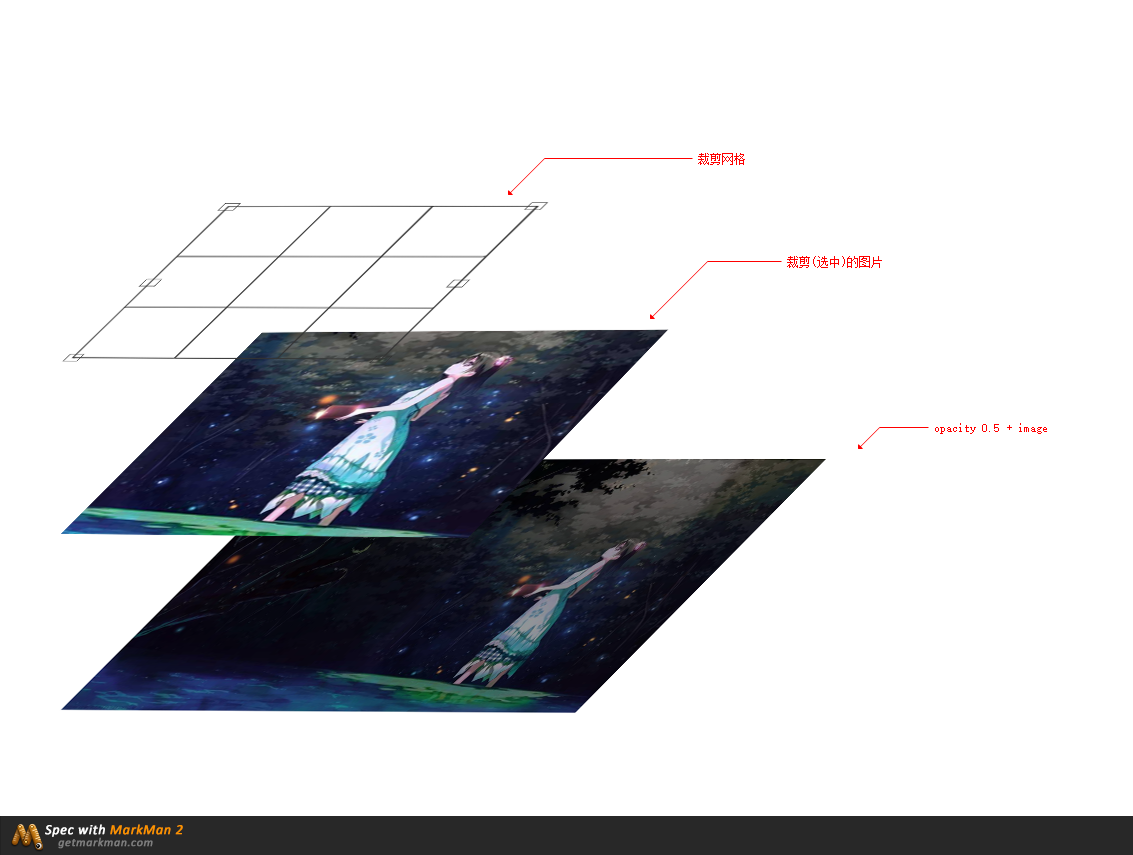
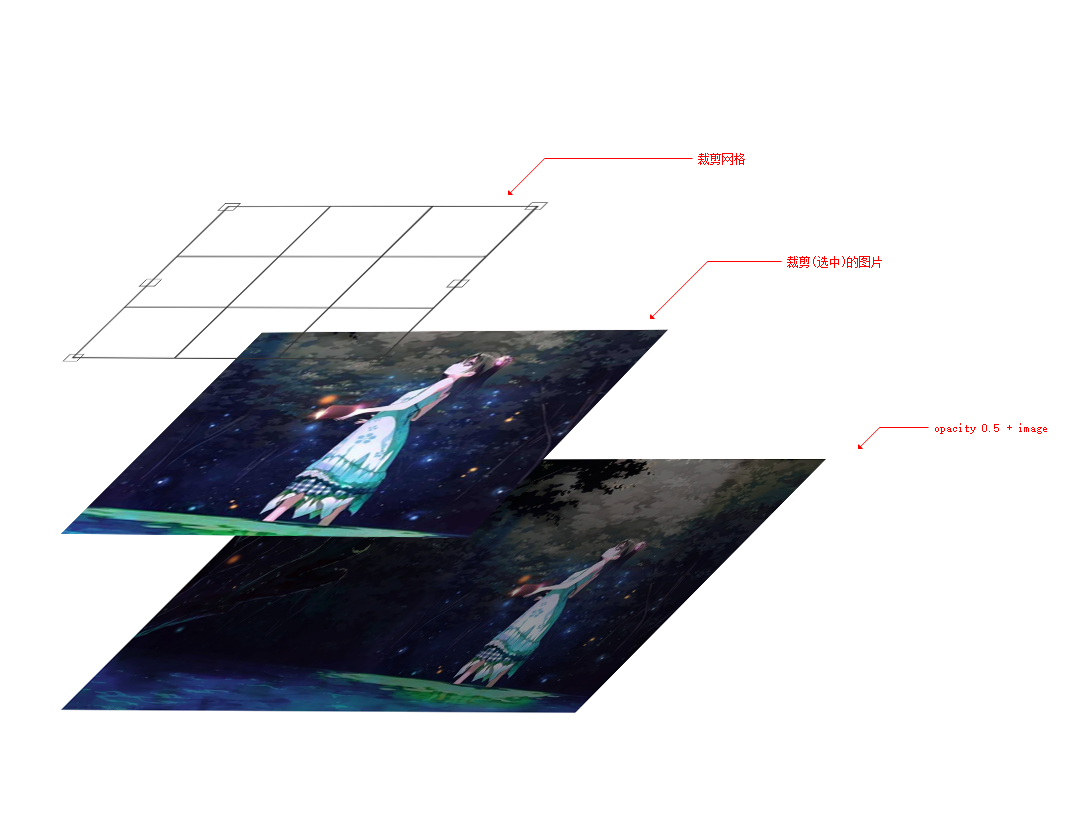
Site updated: 2017-11-19 23:37:47

diff --git a/2017/11/17/Javascript深入解析-裁剪图片效果/index.html b/2017/11/17/Javascript深入解析-裁剪图片效果/index.html
@@ -98,13 +98,16 @@
 <meta property="og:url" content="http://yoursite.com/2017/11/17/Javascript深入解析-裁剪图片效果/index.html">
 <meta property="og:site_name" content="usake - 实验台">
 <meta property="og:description" content="在生活中我们时常能看到这种图片裁剪的效果, 那么他实际上用JavaScript是怎么实现的呢? 让我们深入的了解一下.">
+<meta property="og:image" content="http://yoursite.com/blog/2017/11/17/Javascript深入解析-裁剪图片效果/image-01.png">
+<meta property="og:image" content="http://yoursite.com/blog/2017/11/17/Javascript深入解析-裁剪图片效果/clip_spec.png">
 <meta property="og:image" content="http://yoursite.com/blog/2017/11/17/Javascript深入解析-裁剪图片效果/MouseEvent-1.png">
 <meta property="og:image" content="http://yoursite.com/blog/2017/11/17/Javascript深入解析-裁剪图片效果/MouseEvent-2.png">
-<meta property="og:updated_time" content="2017-11-18T14:09:31.411Z">
+<meta property="og:image" content="http://yoursite.com/blog/2017/11/17/Javascript深入解析-裁剪图片效果/drap-2.png">
+<meta property="og:updated_time" content="2017-11-19T15:36:17.455Z">
 <meta name="twitter:card" content="summary">
 <meta name="twitter:title" content="Javascript深入理解-裁剪图片效果">
 <meta name="twitter:description" content="在生活中我们时常能看到这种图片裁剪的效果, 那么他实际上用JavaScript是怎么实现的呢? 让我们深入的了解一下.">
-<meta name="twitter:image" content="http://yoursite.com/blog/2017/11/17/Javascript深入解析-裁剪图片效果/MouseEvent-1.png">
+<meta name="twitter:image" content="http://yoursite.com/blog/2017/11/17/Javascript深入解析-裁剪图片效果/image-01.png">
 
 
 
@@ -424,32 +427,38 @@
       
 
       
-        
+        <img src="/blog/2017/11/17/Javascript深入解析-裁剪图片效果/image-01.png" alt="image-01.png" title="">
 <p>在生活中我们时常能看到这种图片裁剪的效果, 那么他实际上用JavaScript是怎么实现的呢? 让我们深入的了解一下.<br><a id="more"></a></p>
-<h2 id="原理分析"><a href="#原理分析" class="headerlink" title="原理分析"></a>原理分析</h2><p>&emsp;&emsp;首先我们先将视图一分为三, 看作为三个层级叠加在一起的仰视图.</p>
+<h2 id="原理分析"><a href="#原理分析" class="headerlink" title="原理分析"></a>原理分析</h2><img src="/blog/2017/11/17/Javascript深入解析-裁剪图片效果/clip_spec.png" alt="自己用PS撸的渣图" title="自己用PS撸的渣图">
+<p>首先我们先将视图一分为三, 理解为三个层级叠加在一起的仰视图.</p>
 <ul>
 <li>最上面是可拖动的选择窗口</li>
 <li>中间待剪辑的可视窗口</li>
-<li>底层是一张<code>opacity: .5</code>的背景图片{% asset_img clip_spec.png %}
-</li>
+<li>底层是一张<code>opacity: .5</code>的背景图片</li>
 </ul>
-<h3 id="基础结构"><a href="#基础结构" class="headerlink" title="基础结构"></a>基础结构</h3><p>&emsp;&emsp;我们这里主要讲JavaScript, HTML与css就简要的过一下.</p>
+<h3 id="基础结构"><a href="#基础结构" class="headerlink" title="基础结构"></a>基础结构</h3><p>我们这里主要讲JavaScript, HTML与css就简要的过一下.</p>
 <p>首先<code>HTML</code>基本结构是两张相同的结构, 两张图片分别是调整过透明度的底图和一张被裁剪过了的中间层.<code>mainBox</code>包裹着选择的小方块<code>square</code>,相对定位于image在最上面一层.<br><figure class="highlight html"><table><tr><td class="gutter"><pre><div class="line">1</div><div class="line">2</div><div class="line">3</div><div class="line">4</div><div class="line">5</div><div class="line">6</div><div class="line">7</div><div class="line">8</div><div class="line">9</div><div class="line">10</div><div class="line">11</div><div class="line">12</div><div class="line">13</div><div class="line">14</div><div class="line">15</div><div class="line">16</div><div class="line">17</div><div class="line">18</div></pre></td><td class="code"><pre><div class="line"><span class="comment">&lt;!-- index.html --&gt;</span></div><div class="line"><span class="tag">&lt;<span class="name">body</span>&gt;</span></div><div class="line">  <span class="tag">&lt;<span class="name">div</span> <span class="attr">id</span>=<span class="string">"box"</span>&gt;</span></div><div class="line">    <span class="tag">&lt;<span class="name">img</span> <span class="attr">src</span>=<span class="string">"images/Konachan.com - 239917 sample.jpg"</span> <span class="attr">alt</span>=<span class="string">"img"</span> <span class="attr">id</span>=<span class="string">"image1"</span>&gt;</span></div><div class="line">    <span class="tag">&lt;<span class="name">img</span> <span class="attr">src</span>=<span class="string">"images/Konachan.com - 239917 sample.jpg"</span> <span class="attr">alt</span>=<span class="string">"img"</span> <span class="attr">id</span>=<span class="string">"image2"</span>&gt;</span></div><div class="line">    <span class="tag">&lt;<span class="name">div</span> <span class="attr">id</span>=<span class="string">"mainBox"</span> <span class="attr">class</span>=<span class="string">"main"</span>&gt;</span></div><div class="line">      <span class="tag">&lt;<span class="name">div</span> <span class="attr">class</span>=<span class="string">"square left-up"</span>&gt;</span><span class="tag">&lt;/<span class="name">div</span>&gt;</span></div><div class="line">      <span class="tag">&lt;<span class="name">div</span> <span class="attr">class</span>=<span class="string">"square up"</span>&gt;</span><span class="tag">&lt;/<span class="name">div</span>&gt;</span></div><div class="line">      <span class="tag">&lt;<span class="name">div</span> <span class="attr">class</span>=<span class="string">"square right-up"</span>&gt;</span><span class="tag">&lt;/<span class="name">div</span>&gt;</span></div><div class="line">      <span class="tag">&lt;<span class="name">div</span> <span class="attr">class</span>=<span class="string">"square right"</span>&gt;</span><span class="tag">&lt;/<span class="name">div</span>&gt;</span></div><div class="line">      <span class="tag">&lt;<span class="name">div</span> <span class="attr">class</span>=<span class="string">"square right-down"</span>&gt;</span><span class="tag">&lt;/<span class="name">div</span>&gt;</span></div><div class="line">      <span class="tag">&lt;<span class="name">div</span> <span class="attr">class</span>=<span class="string">"square down"</span>&gt;</span><span class="tag">&lt;/<span class="name">div</span>&gt;</span></div><div class="line">      <span class="tag">&lt;<span class="name">div</span> <span class="attr">class</span>=<span class="string">"square left-down"</span>&gt;</span><span class="tag">&lt;/<span class="name">div</span>&gt;</span></div><div class="line">      <span class="tag">&lt;<span class="name">div</span> <span class="attr">class</span>=<span class="string">"square left"</span>&gt;</span><span class="tag">&lt;/<span class="name">div</span>&gt;</span></div><div class="line">    <span class="tag">&lt;/<span class="name">div</span>&gt;</span></div><div class="line">  <span class="tag">&lt;/<span class="name">div</span>&gt;</span></div><div class="line">  <span class="tag">&lt;<span class="name">script</span> <span class="attr">src</span>=<span class="string">"js/main.js"</span>&gt;</span><span class="undefined"></span><span class="tag">&lt;/<span class="name">script</span>&gt;</span></div><div class="line"><span class="tag">&lt;/<span class="name">body</span>&gt;</span></div></pre></td></tr></table></figure></p>
-<p><strong>CSS样式</strong><br><figure class="highlight plain"><table><tr><td class="gutter"><pre><div class="line">1</div><div class="line">2</div><div class="line">3</div><div class="line">4</div><div class="line">5</div><div class="line">6</div><div class="line">7</div><div class="line">8</div><div class="line">9</div><div class="line">10</div><div class="line">11</div><div class="line">12</div><div class="line">13</div><div class="line">14</div><div class="line">15</div><div class="line">16</div><div class="line">17</div><div class="line">18</div><div class="line">19</div><div class="line">20</div><div class="line">21</div><div class="line">22</div><div class="line">23</div></pre></td><td class="code"><pre><div class="line">body &#123;background: #333;&#125;</div><div class="line">#box &#123;position: absolute;top: 100px; left: 200px; width: 460px; height: 360px;&#125;</div><div class="line">#box img &#123;width: 460px;&#125;</div><div class="line">#box #image1 &#123;opacity: .5;position: absolute; top: 0;left: 0;&#125;</div><div class="line">#box #image2 &#123;position: absolute; top: 0;left: 0; clip: rect(0, 200px, 200px, 0) &#125;</div><div class="line">#box .main &#123;position: absolute;border: 1px solid #fff; width: 200px; height: 200px;box-sizing: border-box;&#125;</div><div class="line">#box .main .square &#123;position: absolute; width: 8px;height: 8px; background: #fff&#125;</div><div class="line">#box .main .left-up&#123;left: -4px;top: -4px;cursor: nw-resize;&#125;</div><div class="line">#box .main .up&#123;left: 50%;top: -4px;margin-left: -4px;cursor: n-resize&#125;</div><div class="line">#box .main .right-up&#123;right: -4px;top: -4px;cursor: ne-resize&#125;</div><div class="line">#box .main .right&#123;right: -4px;top: 50%;margin-top: -4px;cursor: e-resize&#125;</div><div class="line">#box .main .right-down&#123;right: -4px;bottom: -4px;cursor: se-resize&#125;</div><div class="line">#box .main .down&#123;left: 50%;bottom: -4px;margin-left: -4px;cursor: s-resize&#125;</div><div class="line">#box .main .left-down&#123;left: -4px;bottom: -4px;cursor: sw-resize&#125;</div><div class="line">#box .main .left&#123;top: 50%;left: -4px;margin-top: -4px;cursor: w-resize&#125;</div><div class="line">#box &#123;</div><div class="line">  -webkit-touch-callout: none;</div><div class="line">  -webkit-user-select: none;</div><div class="line">  -khtml-user-select: none;</div><div class="line">  -moz-user-select: none;</div><div class="line">  -ms-user-select: none;</div><div class="line">  user-select: none;</div><div class="line">&#125;</div></pre></td></tr></table></figure></p>
-<h3 id="JavaScript实现"><a href="#JavaScript实现" class="headerlink" title="JavaScript实现"></a>JavaScript实现</h3><p>&emsp;&emsp;我们先来思考一下, 该如何实现范围的拖动.. 最上层有9个控制键(key), 分别代表着各个方向, 想要拖动key, 无非要实现这几个底层步骤 – 鼠标落下点击触发Key(MouseDown), 鼠标移动(MouseMove), 拖动到预想的位置, 松开鼠标(MouseUp). 这样思路就清晰了.</p>
-<p>&emsp;&emsp;先来看看单边拖动如何实现.创建一个<code>clipImage</code>函数作为入口函数, 主要获取目标元素和生成DOM节点(后面讲), 绑定事件.</p>
-<p>&emsp;&emsp;按照思路我们先应该给元素绑定一个事件(mousedown), 鼠标落下后会触发一个事件(MouseEvent), 事件监听器将事件作为形参, 通过调用函数<code>onMousedown</code>传入实参<code>e</code>来获取数据.<br><figure class="highlight javascript"><table><tr><td class="gutter"><pre><div class="line">1</div><div class="line">2</div><div class="line">3</div><div class="line">4</div><div class="line">5</div><div class="line">6</div><div class="line">7</div><div class="line">8</div><div class="line">9</div><div class="line">10</div><div class="line">11</div><div class="line">12</div><div class="line">13</div><div class="line">14</div><div class="line">15</div><div class="line">16</div><div class="line">17</div><div class="line">18</div><div class="line">19</div><div class="line">20</div><div class="line">21</div><div class="line">22</div><div class="line">23</div><div class="line">24</div><div class="line">25</div><div class="line">26</div></pre></td><td class="code"><pre><div class="line">;(<span class="function"><span class="keyword">function</span>(<span class="params"></span>) </span>&#123;</div><div class="line">  <span class="comment">// Util工具函数</span></div><div class="line">  <span class="keyword">var</span> util = &#123;</div><div class="line">    <span class="attr">$</span>: <span class="function"><span class="keyword">function</span>(<span class="params">dom</span>) </span>&#123;</div><div class="line">      <span class="keyword">return</span> <span class="built_in">document</span>.querySelector(dom);</div><div class="line">    &#125;</div><div class="line">  &#125;;</div><div class="line"></div><div class="line">  <span class="comment">// "全局变量", 记录状态</span></div><div class="line">  <span class="keyword">var</span> MainBox, MainCtrl, MainType;</div><div class="line">  <span class="keyword">var</span> startX = <span class="number">0</span>;</div><div class="line"></div><div class="line">  clipImage(<span class="string">'mainBox'</span>);</div><div class="line">  <span class="function"><span class="keyword">function</span> <span class="title">clipImage</span>(<span class="params">id</span>) </span>&#123;</div><div class="line">    <span class="keyword">var</span> boxMain = <span class="built_in">document</span>.getElementById(id);</div><div class="line">    <span class="keyword">var</span> right = util.$(<span class="string">'#box .main .right'</span>);</div><div class="line"></div><div class="line">    <span class="comment">// Add mouse down event</span></div><div class="line">    up.addEventListener(<span class="string">'mousedown'</span>, <span class="function"><span class="keyword">function</span>(<span class="params">e</span>) </span>&#123;</div><div class="line">      onMousedown(e, box, up, <span class="string">'up'</span>);</div><div class="line">    &#125;);</div><div class="line"></div><div class="line">  <span class="function"><span class="keyword">function</span> <span class="title">onMousedown</span>(<span class="params">e, box, ctrl, type</span>) </span>&#123;</div><div class="line">    <span class="keyword">var</span> e = e || <span class="built_in">window</span>.event;</div><div class="line">  &#125;</div><div class="line">&#125;)();</div></pre></td></tr></table></figure></p>
-<p>将<code>e</code>输出到控制台看看葫芦里卖的到底是什么药先~<br><img src="/blog/2017/11/17/Javascript深入解析-裁剪图片效果/MouseEvent-1.png" alt="MouseEvent-1.png" title=""><br><img src="/blog/2017/11/17/Javascript深入解析-裁剪图片效果/MouseEvent-2.png" alt="MouseEvent-2.png" title=""></p>
+<figure class="highlight css"><table><tr><td class="gutter"><pre><div class="line">1</div><div class="line">2</div><div class="line">3</div><div class="line">4</div><div class="line">5</div><div class="line">6</div><div class="line">7</div><div class="line">8</div><div class="line">9</div><div class="line">10</div><div class="line">11</div><div class="line">12</div><div class="line">13</div><div class="line">14</div><div class="line">15</div><div class="line">16</div><div class="line">17</div><div class="line">18</div><div class="line">19</div><div class="line">20</div><div class="line">21</div><div class="line">22</div><div class="line">23</div><div class="line">24</div></pre></td><td class="code"><pre><div class="line"><span class="comment">/* main.css */</span></div><div class="line"><span class="selector-tag">body</span> &#123;<span class="attribute">background</span>: <span class="number">#333</span>;&#125;</div><div class="line"><span class="selector-id">#box</span> &#123;<span class="attribute">position</span>: absolute;<span class="attribute">top</span>: <span class="number">100px</span>; <span class="attribute">left</span>: <span class="number">200px</span>; <span class="attribute">width</span>: <span class="number">460px</span>; <span class="attribute">height</span>: <span class="number">360px</span>;&#125;</div><div class="line"><span class="selector-id">#box</span> <span class="selector-tag">img</span> &#123;<span class="attribute">width</span>: <span class="number">460px</span>;&#125;</div><div class="line"><span class="selector-id">#box</span> <span class="selector-id">#image1</span> &#123;<span class="attribute">opacity</span>: .<span class="number">5</span>;<span class="attribute">position</span>: absolute; <span class="attribute">top</span>: <span class="number">0</span>;<span class="attribute">left</span>: <span class="number">0</span>;&#125;</div><div class="line"><span class="selector-id">#box</span> <span class="selector-id">#image2</span> &#123;<span class="attribute">position</span>: absolute; <span class="attribute">top</span>: <span class="number">0</span>;<span class="attribute">left</span>: <span class="number">0</span>; <span class="attribute">clip</span>: <span class="built_in">rect</span>(0, 200px, 200px, 0) &#125;</div><div class="line"><span class="selector-id">#box</span> <span class="selector-class">.main</span> &#123;<span class="attribute">position</span>: absolute;<span class="attribute">border</span>: <span class="number">1px</span> solid <span class="number">#fff</span>; <span class="attribute">width</span>: <span class="number">200px</span>; <span class="attribute">height</span>: <span class="number">200px</span>;<span class="attribute">box-sizing</span>: border-box;&#125;</div><div class="line"><span class="selector-id">#box</span> <span class="selector-class">.main</span> <span class="selector-class">.square</span> &#123;<span class="attribute">position</span>: absolute; <span class="attribute">width</span>: <span class="number">8px</span>;<span class="attribute">height</span>: <span class="number">8px</span>; <span class="attribute">background</span>: <span class="number">#fff</span>&#125;</div><div class="line"><span class="selector-id">#box</span> <span class="selector-class">.main</span> <span class="selector-class">.left-up</span>&#123;<span class="attribute">left</span>: -<span class="number">4px</span>;<span class="attribute">top</span>: -<span class="number">4px</span>;<span class="attribute">cursor</span>: nw-resize;&#125;</div><div class="line"><span class="selector-id">#box</span> <span class="selector-class">.main</span> <span class="selector-class">.up</span>&#123;<span class="attribute">left</span>: <span class="number">50%</span>;<span class="attribute">top</span>: -<span class="number">4px</span>;<span class="attribute">margin-left</span>: -<span class="number">4px</span>;<span class="attribute">cursor</span>: n-resize&#125;</div><div class="line"><span class="selector-id">#box</span> <span class="selector-class">.main</span> <span class="selector-class">.right-up</span>&#123;<span class="attribute">right</span>: -<span class="number">4px</span>;<span class="attribute">top</span>: -<span class="number">4px</span>;<span class="attribute">cursor</span>: ne-resize&#125;</div><div class="line"><span class="selector-id">#box</span> <span class="selector-class">.main</span> <span class="selector-class">.right</span>&#123;<span class="attribute">right</span>: -<span class="number">4px</span>;<span class="attribute">top</span>: <span class="number">50%</span>;<span class="attribute">margin-top</span>: -<span class="number">4px</span>;<span class="attribute">cursor</span>: e-resize&#125;</div><div class="line"><span class="selector-id">#box</span> <span class="selector-class">.main</span> <span class="selector-class">.right-down</span>&#123;<span class="attribute">right</span>: -<span class="number">4px</span>;<span class="attribute">bottom</span>: -<span class="number">4px</span>;<span class="attribute">cursor</span>: se-resize&#125;</div><div class="line"><span class="selector-id">#box</span> <span class="selector-class">.main</span> <span class="selector-class">.down</span>&#123;<span class="attribute">left</span>: <span class="number">50%</span>;<span class="attribute">bottom</span>: -<span class="number">4px</span>;<span class="attribute">margin-left</span>: -<span class="number">4px</span>;<span class="attribute">cursor</span>: s-resize&#125;</div><div class="line"><span class="selector-id">#box</span> <span class="selector-class">.main</span> <span class="selector-class">.left-down</span>&#123;<span class="attribute">left</span>: -<span class="number">4px</span>;<span class="attribute">bottom</span>: -<span class="number">4px</span>;<span class="attribute">cursor</span>: sw-resize&#125;</div><div class="line"><span class="selector-id">#box</span> <span class="selector-class">.main</span> <span class="selector-class">.left</span>&#123;<span class="attribute">top</span>: <span class="number">50%</span>;<span class="attribute">left</span>: -<span class="number">4px</span>;<span class="attribute">margin-top</span>: -<span class="number">4px</span>;<span class="attribute">cursor</span>: w-resize&#125;</div><div class="line"><span class="selector-id">#box</span> &#123;</div><div class="line">  <span class="attribute">-webkit-touch-callout</span>: none;</div><div class="line">  <span class="attribute">-webkit-user-select</span>: none;</div><div class="line">  <span class="attribute">-khtml-user-select</span>: none;</div><div class="line">  <span class="attribute">-moz-user-select</span>: none;</div><div class="line">  <span class="attribute">-ms-user-select</span>: none;</div><div class="line">  <span class="attribute">user-select</span>: none;</div><div class="line">&#125;</div></pre></td></tr></table></figure>
+<h3 id="JavaScript实现"><a href="#JavaScript实现" class="headerlink" title="JavaScript实现"></a>JavaScript实现</h3><p><strong>ESMAScript</strong>并没有提供可拖动的API, 那我们先来思考一下, 该如何实现拖动的功能~ 最上层有9个<strong>小方块(Square)</strong>, 分别代表着不同方向的边界, 拖动这个边界, 无非需要实现这几个底层步骤…<br> <strong>鼠标落下(MouseDown) =&gt; 鼠标拖动 =&gt; 松开鼠标(MouseUp)</strong>. 这样思路就清晰了.</p>
+<p>先创建一个<em><code>clipImage</code>函数</em>作为入口函数, 主要<strong>获取目标元素和生成DOM节点(后面讲), 绑定事件</strong>.</p>
+<p>按照思路我们先应该给<strong>控制元素</strong>绑定一个<strong>事件(mousedown)</strong>, <strong>鼠标落下</strong>后会触发一个<strong>事件(MouseEvent)</strong>, 事件监听器将事件作为<em>形参</em>, 通过调用函数<em><code>onMousedown</code></em>传入实参<code>e</code>来获取数据.</p>
+<figure class="highlight javascript"><table><tr><td class="gutter"><pre><div class="line">1</div><div class="line">2</div><div class="line">3</div><div class="line">4</div><div class="line">5</div><div class="line">6</div><div class="line">7</div><div class="line">8</div><div class="line">9</div><div class="line">10</div><div class="line">11</div><div class="line">12</div><div class="line">13</div><div class="line">14</div><div class="line">15</div><div class="line">16</div><div class="line">17</div><div class="line">18</div><div class="line">19</div><div class="line">20</div><div class="line">21</div><div class="line">22</div><div class="line">23</div><div class="line">24</div><div class="line">25</div><div class="line">26</div></pre></td><td class="code"><pre><div class="line">;(<span class="function"><span class="keyword">function</span>(<span class="params"></span>) </span>&#123;</div><div class="line">  <span class="comment">// Util工具函数</span></div><div class="line">  <span class="keyword">var</span> util = &#123;</div><div class="line">    <span class="attr">$</span>: <span class="function"><span class="keyword">function</span>(<span class="params">dom</span>) </span>&#123;</div><div class="line">      <span class="keyword">return</span> <span class="built_in">document</span>.querySelector(dom);</div><div class="line">    &#125;</div><div class="line">  &#125;;</div><div class="line"></div><div class="line">  <span class="comment">// "全局变量", 记录状态</span></div><div class="line">  <span class="keyword">var</span> _MainBox, _MainCtrl, _MainType;</div><div class="line">  <span class="keyword">var</span> startX = <span class="number">0</span>;</div><div class="line"></div><div class="line">  clipImage(<span class="string">'mainBox'</span>);</div><div class="line">  <span class="function"><span class="keyword">function</span> <span class="title">clipImage</span>(<span class="params">id</span>) </span>&#123;</div><div class="line">    <span class="keyword">var</span> boxMain = <span class="built_in">document</span>.getElementById(id);</div><div class="line">    <span class="keyword">var</span> right = util.$(<span class="string">'#box .main .right'</span>);</div><div class="line"></div><div class="line">    <span class="comment">// Add mouse down event</span></div><div class="line">    up.addEventListener(<span class="string">'mousedown'</span>, <span class="function"><span class="keyword">function</span>(<span class="params">e</span>) </span>&#123;</div><div class="line">      onMousedown(e, box, up, <span class="string">'up'</span>);</div><div class="line">    &#125;);</div><div class="line"></div><div class="line">  <span class="function"><span class="keyword">function</span> <span class="title">onMousedown</span>(<span class="params">e, box, ctrl, type</span>) </span>&#123;</div><div class="line">    <span class="keyword">var</span> e = e || <span class="built_in">window</span>.event;</div><div class="line">  &#125;</div><div class="line">&#125;)();</div></pre></td></tr></table></figure>
+<p>将<code>e</code>输出到控制台看看输出的是什么先~<br><img src="/blog/2017/11/17/Javascript深入解析-裁剪图片效果/MouseEvent-1.png" alt="输出到控制台" title="输出到控制台"><br><img src="/blog/2017/11/17/Javascript深入解析-裁剪图片效果/MouseEvent-2.png" alt="MouseEvent" title="MouseEvent"></p>
 <blockquote>
 <p><a href="https://developer.mozilla.org/zh-CN/docs/Web/API/MouseEvent" target="_blank" rel="external">MDN</a> - MouseEvent 接口指用户与指针设备( 如鼠标 )交互时发生的事件</p>
 </blockquote>
-<p><code>onMousedown</code>函数中, 接受四个参数<code>e</code>事件, <code>box</code>目标元素, <code>ctrl</code>小方块的方向, <code>type</code>属性, 在函数里主用到了<code>MouseEvent.[pageX|pageY]</code>和<code>HTMLElement.[offsetLeft|offsetTop]</code>来计算鼠标的位置并暴露到全局变量中.<br>回当前元素左上角相对于父元素节点的左边界偏移的像素值。</p>
 <ul>
-<li><a href="https://developer.mozilla.org/zh-CN/docs/Web/API/MouseEvent/pageX" target="_blank" rel="external">MDN - MouseEvent.pageX</a> 返回鼠标指针相对于整个文档的X坐标</li>
-<li><a href="https://developer.mozilla.org/zh-CN/docs/Web/API/HTMLElement/offsetLeft" target="_blank" rel="external">MDN - HTMLElement.offsetLeft</a> 返回当前元素左上角相对于父元素左边界的偏差值</li>
+<li><a href="https://developer.mozilla.org/zh-CN/docs/Web/API/MouseEvent/pageX" target="_blank" rel="external">MDN - MouseEvent.pageX</a>&emsp;返回鼠标指针相对于整个文档的X坐标.</li>
+<li><a href="https://developer.mozilla.org/zh-CN/docs/Web/API/HTMLElement/offsetLeft" target="_blank" rel="external">MDN - HTMLElement.offsetLeft</a>&emsp;返回当前元素左上角相对于父元素左边界的偏差值</li>
 </ul>
-<figure class="highlight javascript"><table><tr><td class="gutter"><pre><div class="line">1</div><div class="line">2</div><div class="line">3</div><div class="line">4</div><div class="line">5</div><div class="line">6</div><div class="line">7</div><div class="line">8</div><div class="line">9</div><div class="line">10</div></pre></td><td class="code"><pre><div class="line"><span class="function"><span class="keyword">function</span> <span class="title">onMousedown</span>(<span class="params">e, box, ctrl, type</span>) </span>&#123;</div><div class="line">    <span class="keyword">var</span> e = e || <span class="built_in">window</span>.event;</div><div class="line"></div><div class="line">    <span class="comment">// 鼠标点击时的坐标</span></div><div class="line">    startX = e.pageX - ctrl.offsetLeft;</div><div class="line"></div><div class="line">    MainBox = box;</div><div class="line">    MainCtrl = ctrl;</div><div class="line">    MainType = type;</div><div class="line">  &#125;</div></pre></td></tr></table></figure>
-<p><strong> &lt;– 未待续 –&gt; </strong></p>
+<p><em><code>onMousedown</code>函数</em>中, 接受四个参数<code>e</code>事件, <code>box</code>目标元素, <code>ctrl</code>小方块的方向, <code>type</code>属性, 主要是用来记录<strong>鼠标落下(MouseDown)</strong>相对于容器的起始坐标(start)并赋值给全局变量进行通讯.</p>
+<figure class="highlight javascript"><table><tr><td class="gutter"><pre><div class="line">1</div><div class="line">2</div><div class="line">3</div><div class="line">4</div><div class="line">5</div><div class="line">6</div><div class="line">7</div><div class="line">8</div><div class="line">9</div><div class="line">10</div><div class="line">11</div></pre></td><td class="code"><pre><div class="line"><span class="function"><span class="keyword">function</span> <span class="title">onMousedown</span>(<span class="params">e, box, ctrl, type</span>) </span>&#123;</div><div class="line">    <span class="keyword">var</span> e = e || <span class="built_in">window</span>.event;</div><div class="line"></div><div class="line">    <span class="comment">// 鼠标点击时的起始坐标</span></div><div class="line">    startX = e.pageX - ctrl.offsetLeft;</div><div class="line"></div><div class="line">    <span class="comment">// 将接受到的信息暴露出去.</span></div><div class="line">    _MainBox = box;</div><div class="line">    _MainCtrl = ctrl;</div><div class="line">    _MainType = type;</div><div class="line">  &#125;</div></pre></td></tr></table></figure>
+<p>接着来计算鼠标移动的距离, 我们在<code>onMouseDown</code>函数上再去触发一个移动函数<code>onMove</code>, 以鼠标落下为起点控制元素的偏移.</p>
+{% asset_img drap-1.png 大致坐标关系图 %}
+<p>初始化全局变量<code>pageX</code>, 添加事件监听记录鼠标在页面中的坐标, 进而计算偏移量. 再添加一个标识符, 来确定是否在拖动的状态.<br><figure class="highlight javascript"><table><tr><td class="gutter"><pre><div class="line">1</div><div class="line">2</div><div class="line">3</div><div class="line">4</div><div class="line">5</div><div class="line">6</div><div class="line">7</div><div class="line">8</div><div class="line">9</div><div class="line">10</div><div class="line">11</div><div class="line">12</div><div class="line">13</div><div class="line">14</div><div class="line">15</div><div class="line">16</div><div class="line">17</div><div class="line">18</div><div class="line">19</div><div class="line">20</div><div class="line">21</div><div class="line">22</div><div class="line">23</div><div class="line">24</div><div class="line">25</div><div class="line">26</div><div class="line">27</div><div class="line">28</div><div class="line">29</div><div class="line">30</div><div class="line">31</div><div class="line">32</div><div class="line">33</div><div class="line">34</div><div class="line">35</div><div class="line">36</div><div class="line">37</div><div class="line">38</div><div class="line">39</div></pre></td><td class="code"><pre><div class="line"><span class="keyword">var</span> pageX = <span class="number">0</span>;</div><div class="line"><span class="keyword">var</span> moving = <span class="number">0</span>;</div><div class="line"></div><div class="line"><span class="function"><span class="keyword">function</span> <span class="title">onMousedown</span>(<span class="params">e, box, ctrl, type</span>) </span>&#123;</div><div class="line">  <span class="keyword">var</span> e = e || <span class="built_in">window</span>.event;</div><div class="line"></div><div class="line">  <span class="comment">// 鼠标点击时的坐标</span></div><div class="line">  startX = e.pageX - ctrl.offsetLeft;</div><div class="line"></div><div class="line">  _MainBox = box;</div><div class="line">  _MainCtrl = ctrl;</div><div class="line">  _MainType = type;</div><div class="line"></div><div class="line">  <span class="comment">// 移动计算偏移量并设置到box上</span></div><div class="line">  onMove();</div><div class="line">&#125;</div><div class="line"></div><div class="line"><span class="function"><span class="keyword">function</span> <span class="title">onMove</span>(<span class="params"></span>) </span>&#123;</div><div class="line">  <span class="keyword">var</span> minleft = _MainBox.offsetLeft;</div><div class="line"></div><div class="line">  <span class="comment">// 计算原先的坐标偏移了多少, 并设置上限</span></div><div class="line">  <span class="keyword">var</span> offsetX = pageX - startX;</div><div class="line">  offsetX = <span class="built_in">Math</span>.max(offsetX, minleft);</div><div class="line"></div><div class="line">  <span class="comment">// 设置小方块偏移量和, box宽度, 再循坏调用定时器实现拖动的效果</span></div><div class="line">  <span class="keyword">switch</span>(_MainType) &#123;</div><div class="line">    <span class="keyword">case</span> <span class="string">"right"</span>:</div><div class="line">      _MainCtrl.style.left = offsetX + <span class="string">'px'</span>;</div><div class="line">      _MainBox.style.width = offsetX + <span class="number">6</span> + <span class="string">'px'</span>;</div><div class="line">      <span class="keyword">break</span>;</div><div class="line">  &#125;</div><div class="line">  setTimeout(onMove, <span class="number">10</span>);</div><div class="line">&#125;</div><div class="line"></div><div class="line"><span class="comment">// 监听鼠标相对于页面的坐标</span></div><div class="line"><span class="built_in">document</span>.onmousemove = <span class="function"><span class="keyword">function</span>(<span class="params">e</span>) </span>&#123;</div><div class="line">    <span class="keyword">var</span> e = <span class="built_in">window</span>.event || e;</div><div class="line">    pageX = e.pageX;</div><div class="line">  &#125;;</div></pre></td></tr></table></figure></p>
+<img src="/blog/2017/11/17/Javascript深入解析-裁剪图片效果/drap-2.png" alt="大致坐标关系图" title="大致坐标关系图">
+<p>紧接着我们会发现, 哪怕松开鼠标边框还是会随着鼠标跑, 这是因为还没有清除定时器. 随即我们去监听<em>鼠标松开事件(MouseUp)</em>.</p>
+<p><strong> &lt;– 努力填坑中~ –&gt; </strong></p>
 
       
     </div>

diff --git a/2017/11/06/Basic Algorithm Scripting - 3/index.html b/2017/11/06/Basic Algorithm Scripting - 3/index.html
@@ -99,7 +99,7 @@
 <meta property="og:site_name" content="usake - 实验台">
 <meta property="og:description" content="今天让继续来学习数组方法的用法~">
 <meta property="og:image" content="http://yoursite.com/blog/2017/11/06/Basic%20Algorithm%20Scripting%20-%203/code.png">
-<meta property="og:updated_time" content="2017-11-18T14:09:16.199Z">
+<meta property="og:updated_time" content="2017-11-19T15:37:08.245Z">
 <meta name="twitter:card" content="summary">
 <meta name="twitter:title" content="数组方法深入研究之三 (基础算法)">
 <meta name="twitter:description" content="今天让继续来学习数组方法的用法~">
@@ -431,7 +431,7 @@
 </blockquote>
 <p>&emsp;&emsp;传递给一个包含两个数字的数组。返回这两个数字和<strong>它们之间所有数字的和</strong>。最小的数字并非总在最前面。<br>比如传递<code>[1, 4]</code>会返回<code>10</code>, 即<code>1 + 2 + 3 + 4</code>.</p>
 <h3 id="非数组方法"><a href="#非数组方法" class="headerlink" title="非数组方法"></a>非数组方法</h3><figure class="highlight javascript"><table><tr><td class="gutter"><pre><div class="line">1</div><div class="line">2</div><div class="line">3</div><div class="line">4</div><div class="line">5</div><div class="line">6</div><div class="line">7</div><div class="line">8</div><div class="line">9</div><div class="line">10</div><div class="line">11</div><div class="line">12</div><div class="line">13</div><div class="line">14</div></pre></td><td class="code"><pre><div class="line">  <span class="function"><span class="keyword">function</span> <span class="title">sumAll</span>(<span class="params">arr</span>) </span>&#123;</div><div class="line">  <span class="keyword">var</span> max = <span class="built_in">Math</span>.max.apply(<span class="literal">null</span>, arr);</div><div class="line">  <span class="keyword">var</span> min = <span class="built_in">Math</span>.min.apply(<span class="literal">null</span>,arr);</div><div class="line">  <span class="keyword">var</span> num = max - min;</div><div class="line">  <span class="keyword">var</span> total = min;</div><div class="line"></div><div class="line">  <span class="keyword">while</span>(num) &#123;</div><div class="line">    num--;</div><div class="line">    total += ++min;</div><div class="line">  &#125;</div><div class="line">  <span class="keyword">return</span> total;</div><div class="line">&#125;</div><div class="line"></div><div class="line">sumAll([<span class="number">1</span>, <span class="number">1</span>]);</div></pre></td></tr></table></figure>
-<p><strong> &lt;– 未待续 –&gt; </strong></p>
+<p><strong> &lt;– 未待续~ 有空再深挖 –&gt; </strong></p>
 
       
     </div>

diff --git a/index.html b/index.html
@@ -425,7 +425,8 @@
 
       
         
-          <p>在生活中我们时常能看到这种图片裁剪的效果, 那么他实际上用JavaScript是怎么实现的呢? 让我们深入的了解一下.<br>
+          <img src="/blog/2017/11/17/Javascript深入解析-裁剪图片效果/image-01.png" alt="image-01.png" title="">
+<p>在生活中我们时常能看到这种图片裁剪的效果, 那么他实际上用JavaScript是怎么实现的呢? 让我们深入的了解一下.<br>
           <!--noindex-->
           <div class="post-button text-center">
             <a class="btn" href="/blog/2017/11/17/Javascript深入解析-裁剪图片效果/#more" rel="contents">
